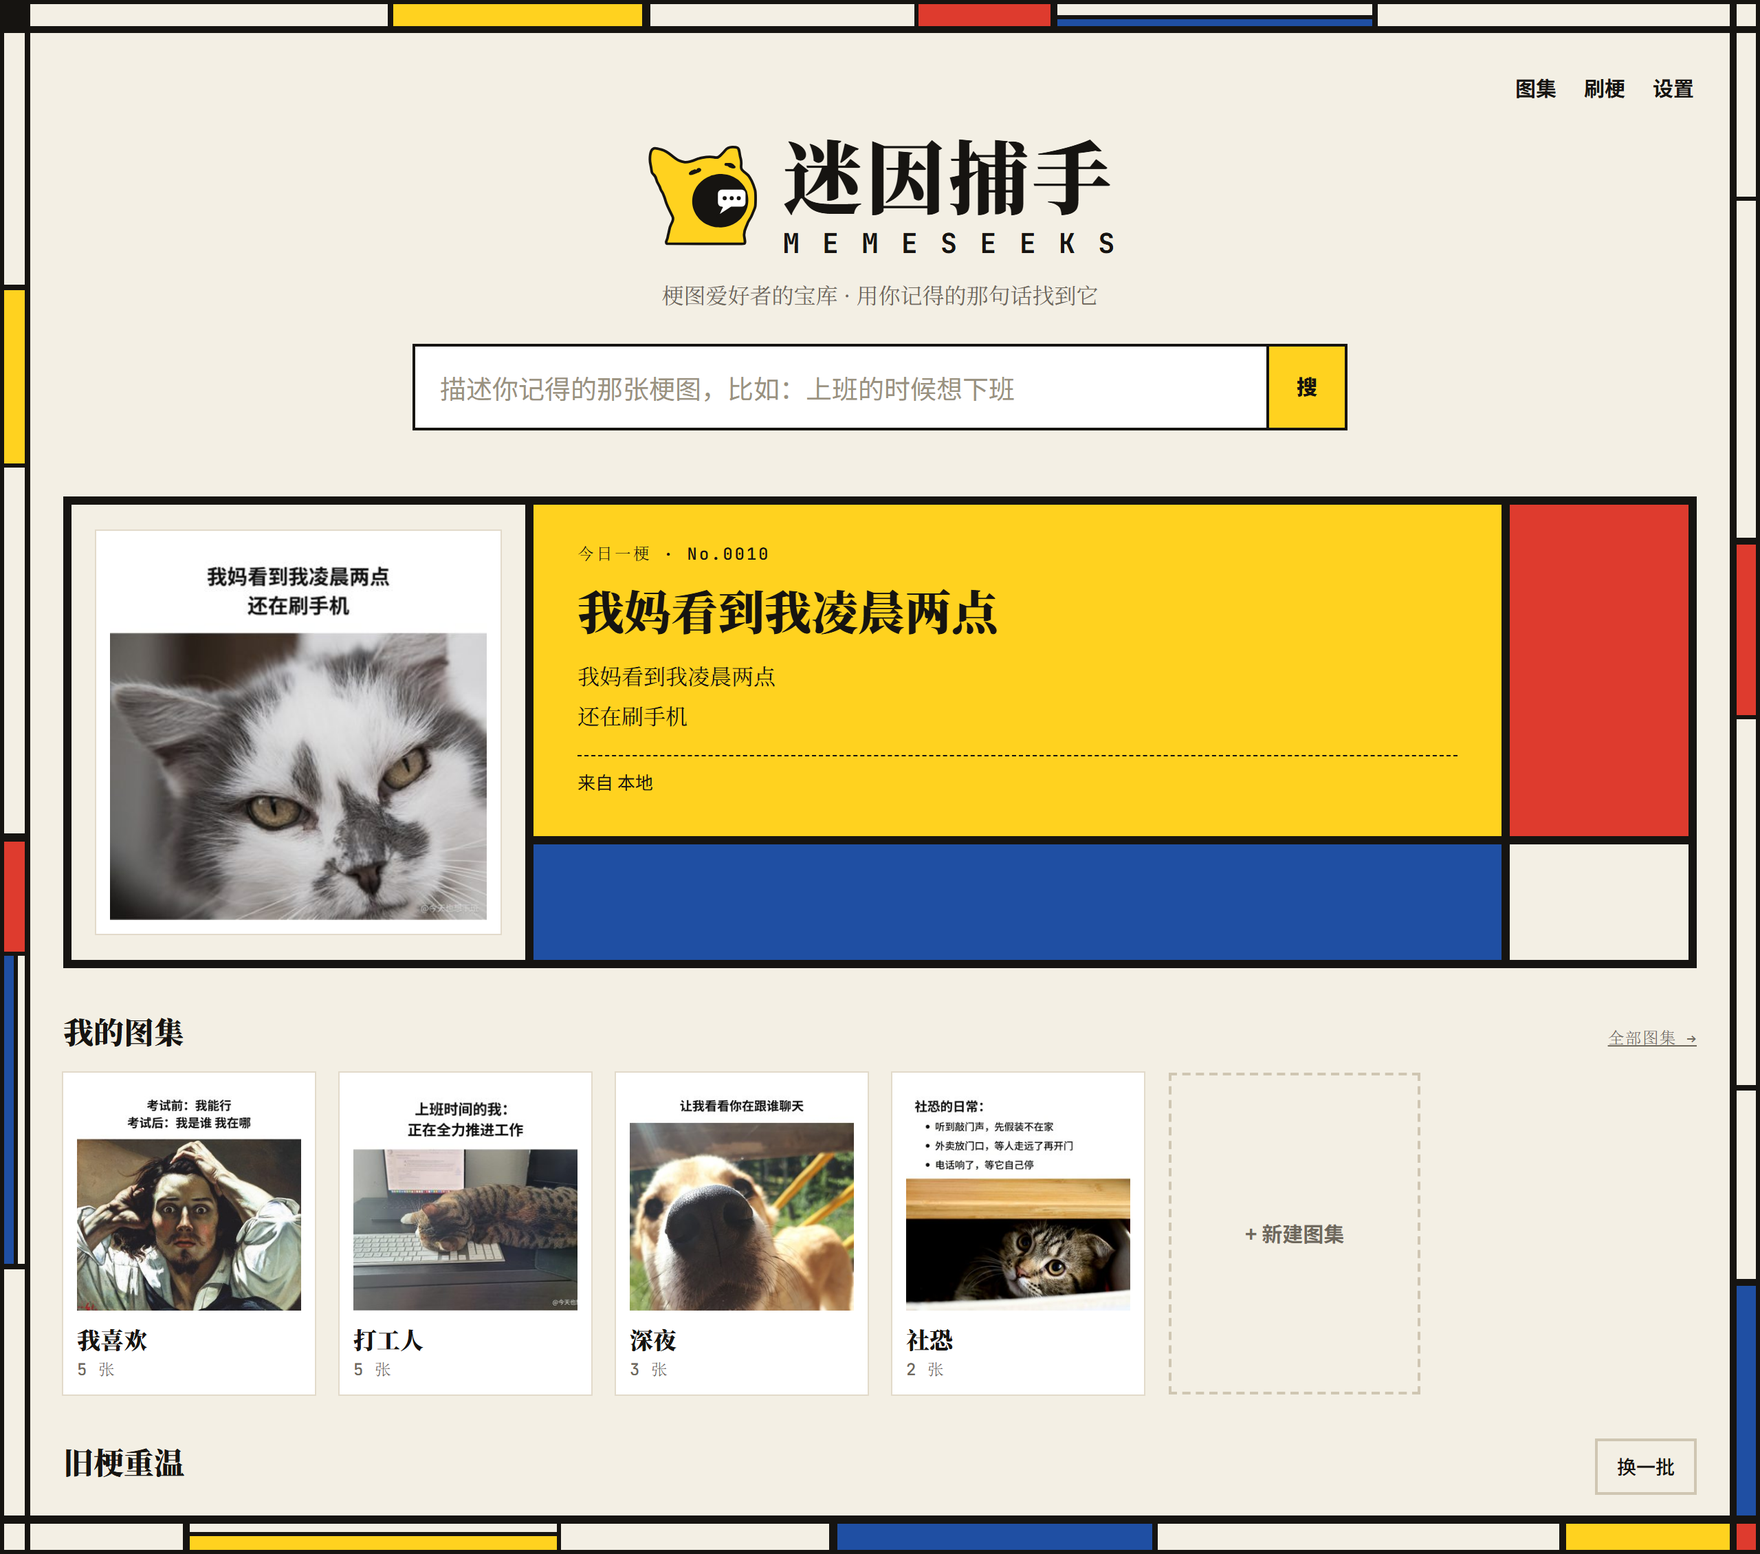
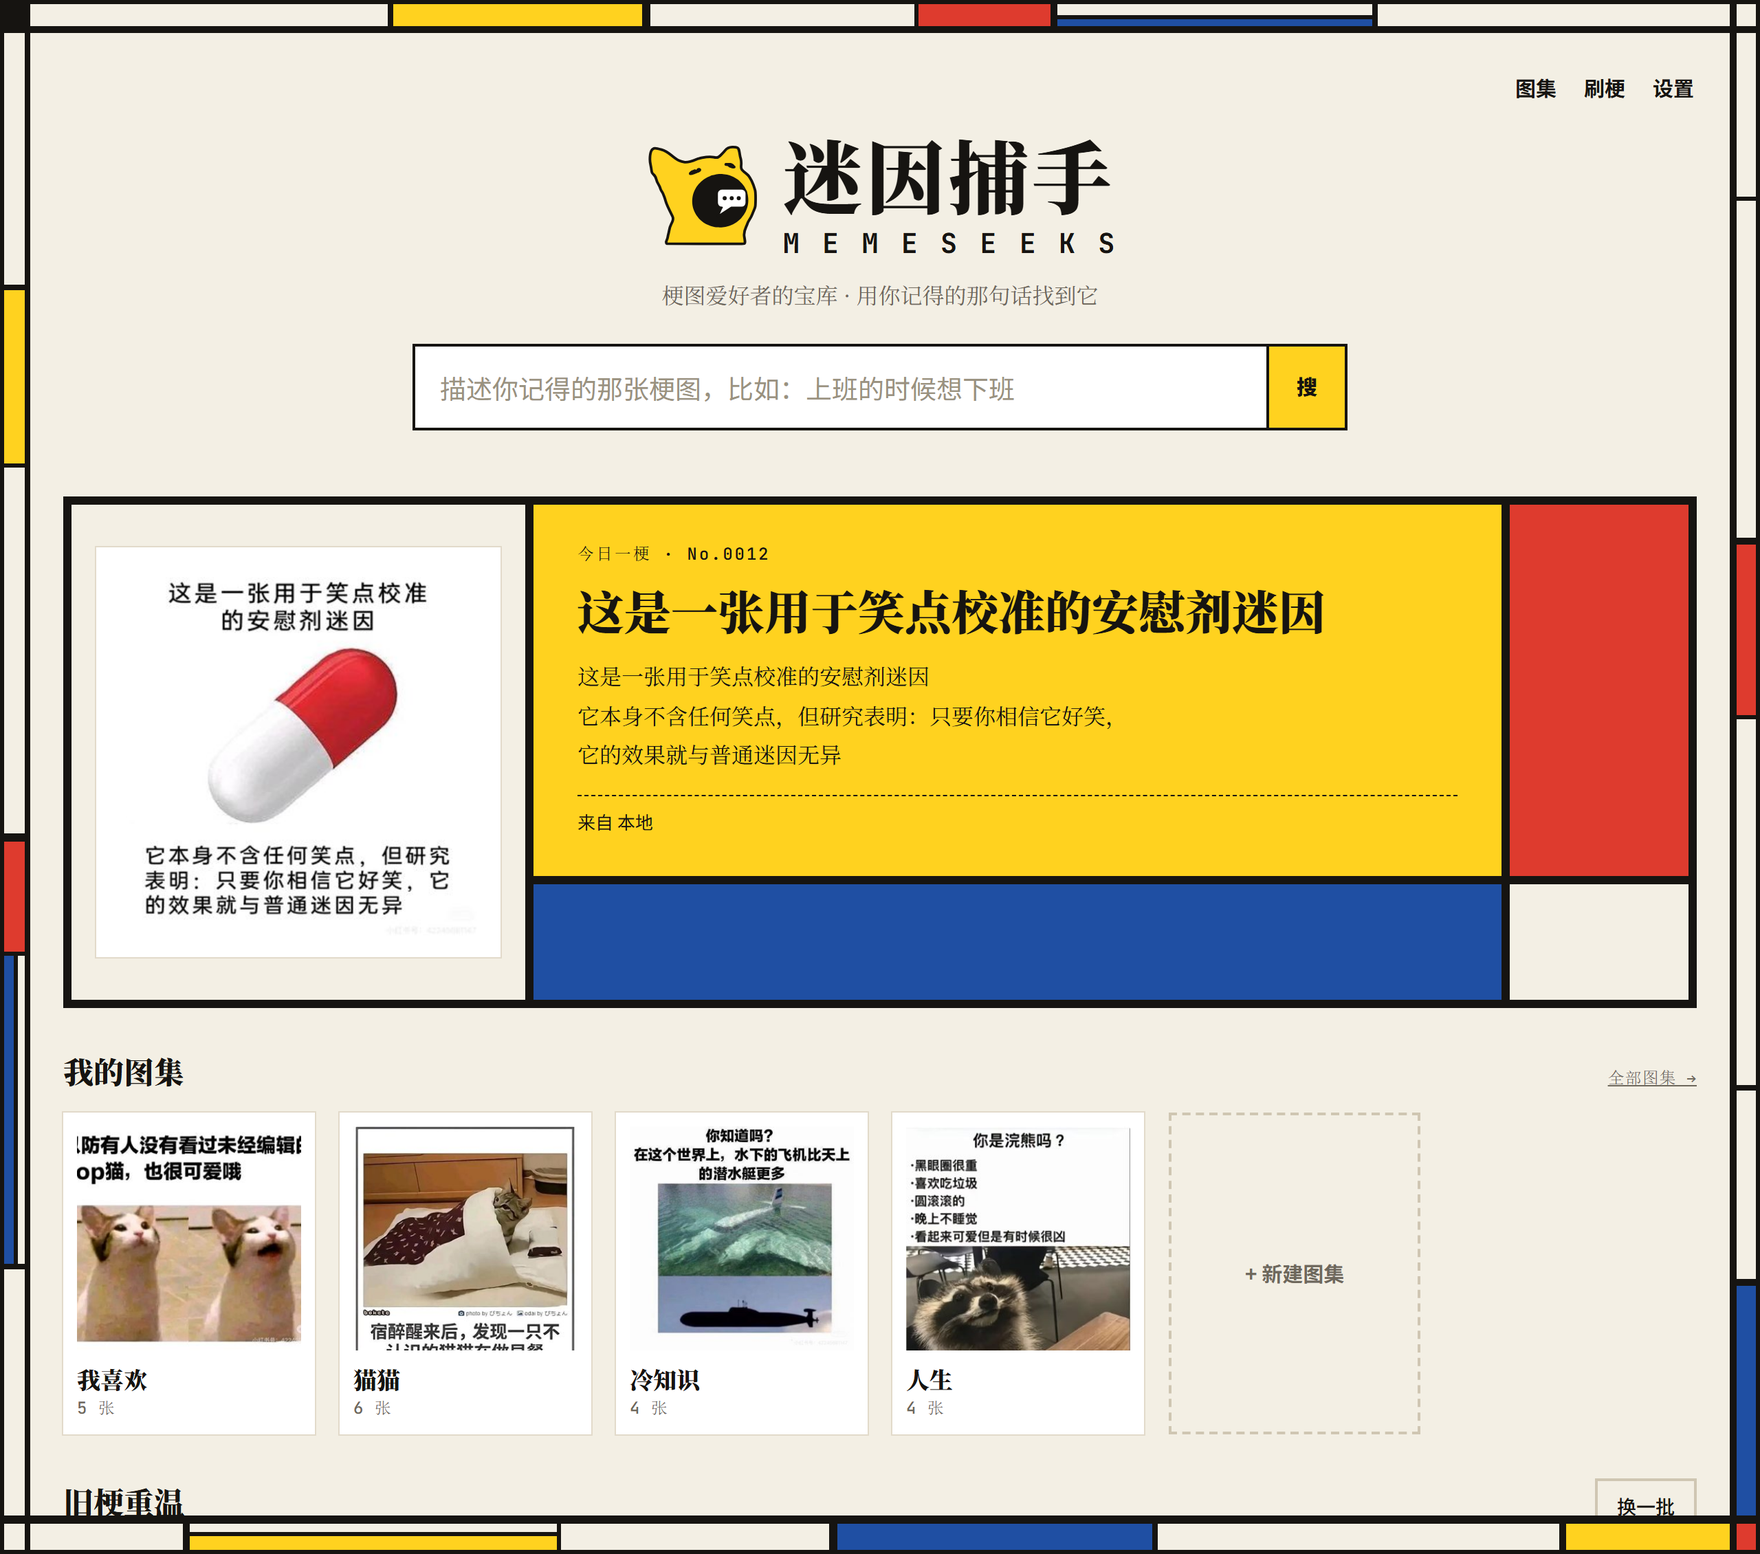
README screenshots from real memes, with where they come from

Changed region(s): [[0.0312, 0.3398, 0.9688, 0.9884], [0.9062, 0.9266, 0.9688, 0.9884], [0.7188, 0.7722, 0.7812, 0.834]]

diff --git a/scripts/demo_memes.py b/scripts/demo_memes.py
@@ -1,4 +1,4 @@
-"""Make a small set of demo memes: for the README's screenshots, or to try memeseeks without a collection.
+"""Make a small set of demo memes, to try memeseeks without a collection of your own.
 
   python scripts/demo_memes.py OUT_DIR [--cache DIR]
 

diff --git a/README.md b/README.md
@@ -17,7 +17,7 @@
 
 ![首页：今日一梗和我的图集](https://raw.githubusercontent.com/tactino/memeseeks/main/docs/screenshots/home.png)
 
-<sub>截图里的梗图是为本项目做的示例：文字、账号和聊天都是编的，照片来自 Wikimedia Commons 上标为 CC0 或公有领域的作品，由 `scripts/demo_memes.py` 生成。</sub>
+<sub>截图里的梗图来自网络（多是小红书上的转载，图上的水印原样保留），版权归原作者所有，这里只用来演示软件。如果其中有你的作品、希望撤下，请[开一个 issue](https://github.com/tactino/memeseeks/issues)，我们会尽快替换。</sub>
 
 ## 安装
 
@@ -56,7 +56,7 @@ macOS / Linux 上对应的是在 `sh` 前面加 `MEMESEEKS_DIR=…`、`MEMESEEKS
 
 打开后先把梗图放进来。可以在任意图集页点「上传」，也可以直接把图片拖进页面；还可以在「设置 → 来源文件夹」里添加电脑上已有的梗图文件夹。放进来的新图会在后台建立索引，页头会显示进度。在笔记本 CPU 上每张大约 3.5 秒，1000 张大约一小时，以后只处理新增的图。
 
-![搜「上班」，捕到 6 张](https://raw.githubusercontent.com/tactino/memeseeks/main/docs/screenshots/search.png)
+![搜「可爱的小动物」，捕到 4 张：图里并没有这几个字](https://raw.githubusercontent.com/tactino/memeseeks/main/docs/screenshots/search.png)
 
 - **搜索**：输入你记得的话，比如「上班的时候想下班」。把握大的结果排在前面，其余的折叠在「可能相关」里。
 - **图集**：有「全部」「我喜欢」和你自己建的图集。在梗图页点「加入图集」；在任意图集页点「上传」，或者把图片拖进页面。

diff --git a/README.en.md b/README.en.md
@@ -17,7 +17,7 @@ Your memes and their index stay on your own computer: nothing is uploaded, no ac
 
 ![The home page: today's meme and the albums](https://raw.githubusercontent.com/tactino/memeseeks/main/docs/screenshots/home.png)
 
-<sub>The memes in the screenshots were made for this project: the captions, accounts and chats are invented, and the photos are works marked CC0 or public domain on Wikimedia Commons; `scripts/demo_memes.py` makes them.</sub>
+<sub>The memes in the screenshots were found online (mostly reposts on Xiaohongshu; their watermarks are left as they were). They belong to their creators and are shown only to demonstrate the software. If one of them is yours and you would like it taken down, please [open an issue](https://github.com/tactino/memeseeks/issues) and we will replace it.</sub>
 
 ## How it finds memes
 
@@ -112,7 +112,7 @@ The library lives in `~/.memeseeks` (override with `--lib DIR` or `MEMESEEKS_HOM
 
 ### The web app
 
-![Searching 上班 (going to work): six confident matches](https://raw.githubusercontent.com/tactino/memeseeks/main/docs/screenshots/search.png)
+![Searching 可爱的小动物 (cute little animals): four confident matches, none of which says those words](https://raw.githubusercontent.com/tactino/memeseeks/main/docs/screenshots/search.png)
 
 It is a personal meme collection, a little like a music app is for songs:
 
